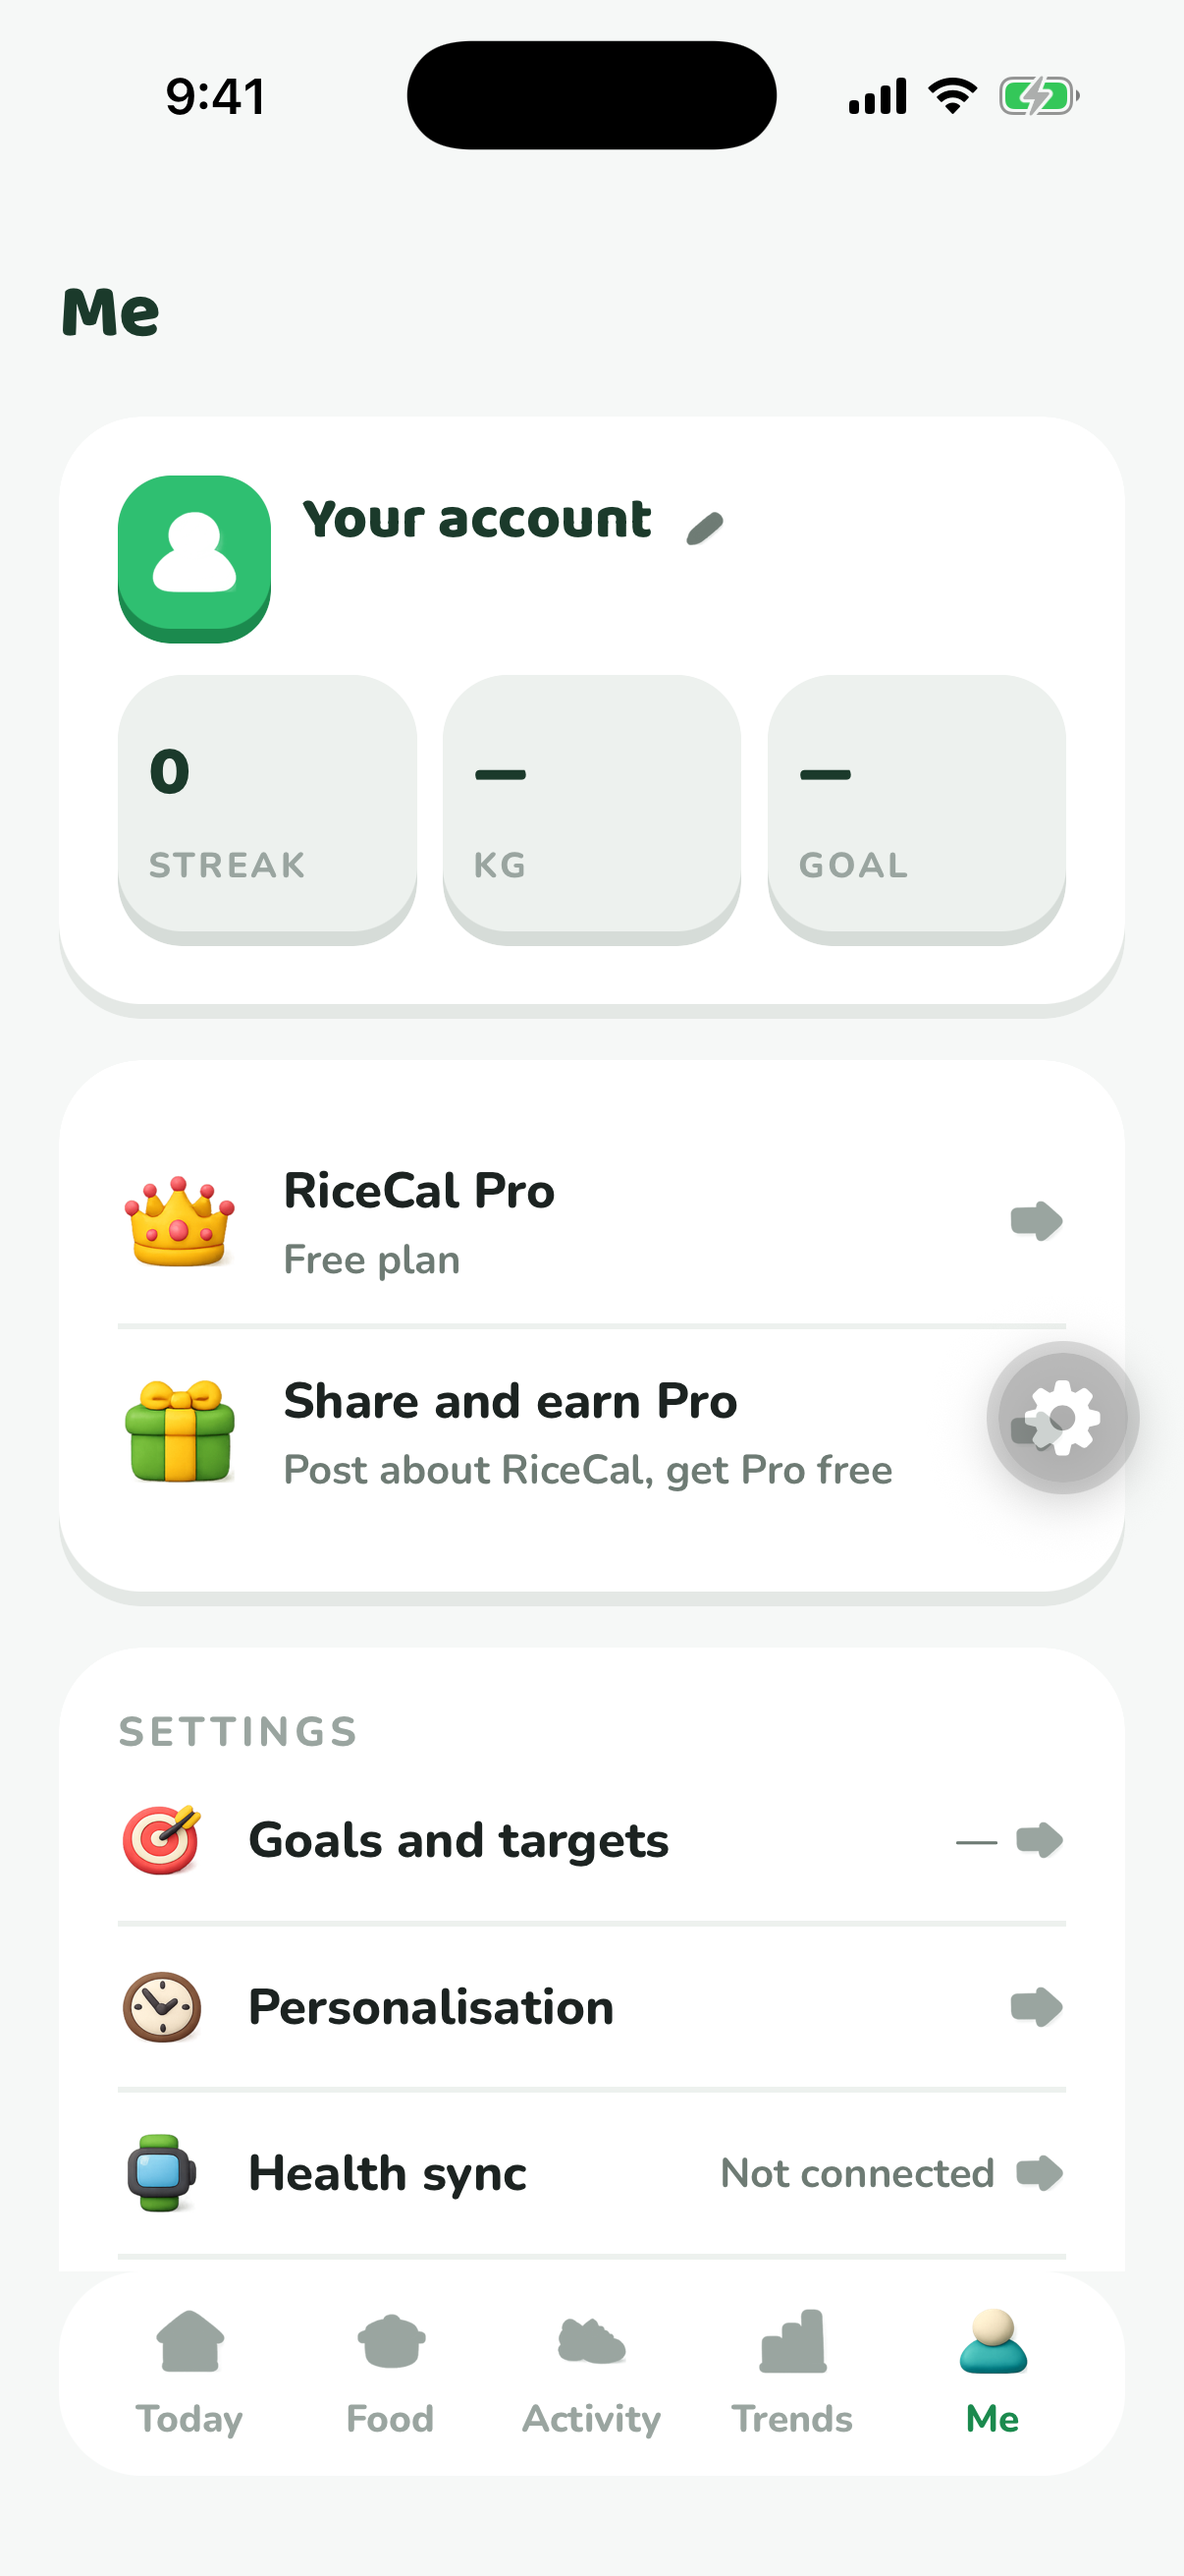
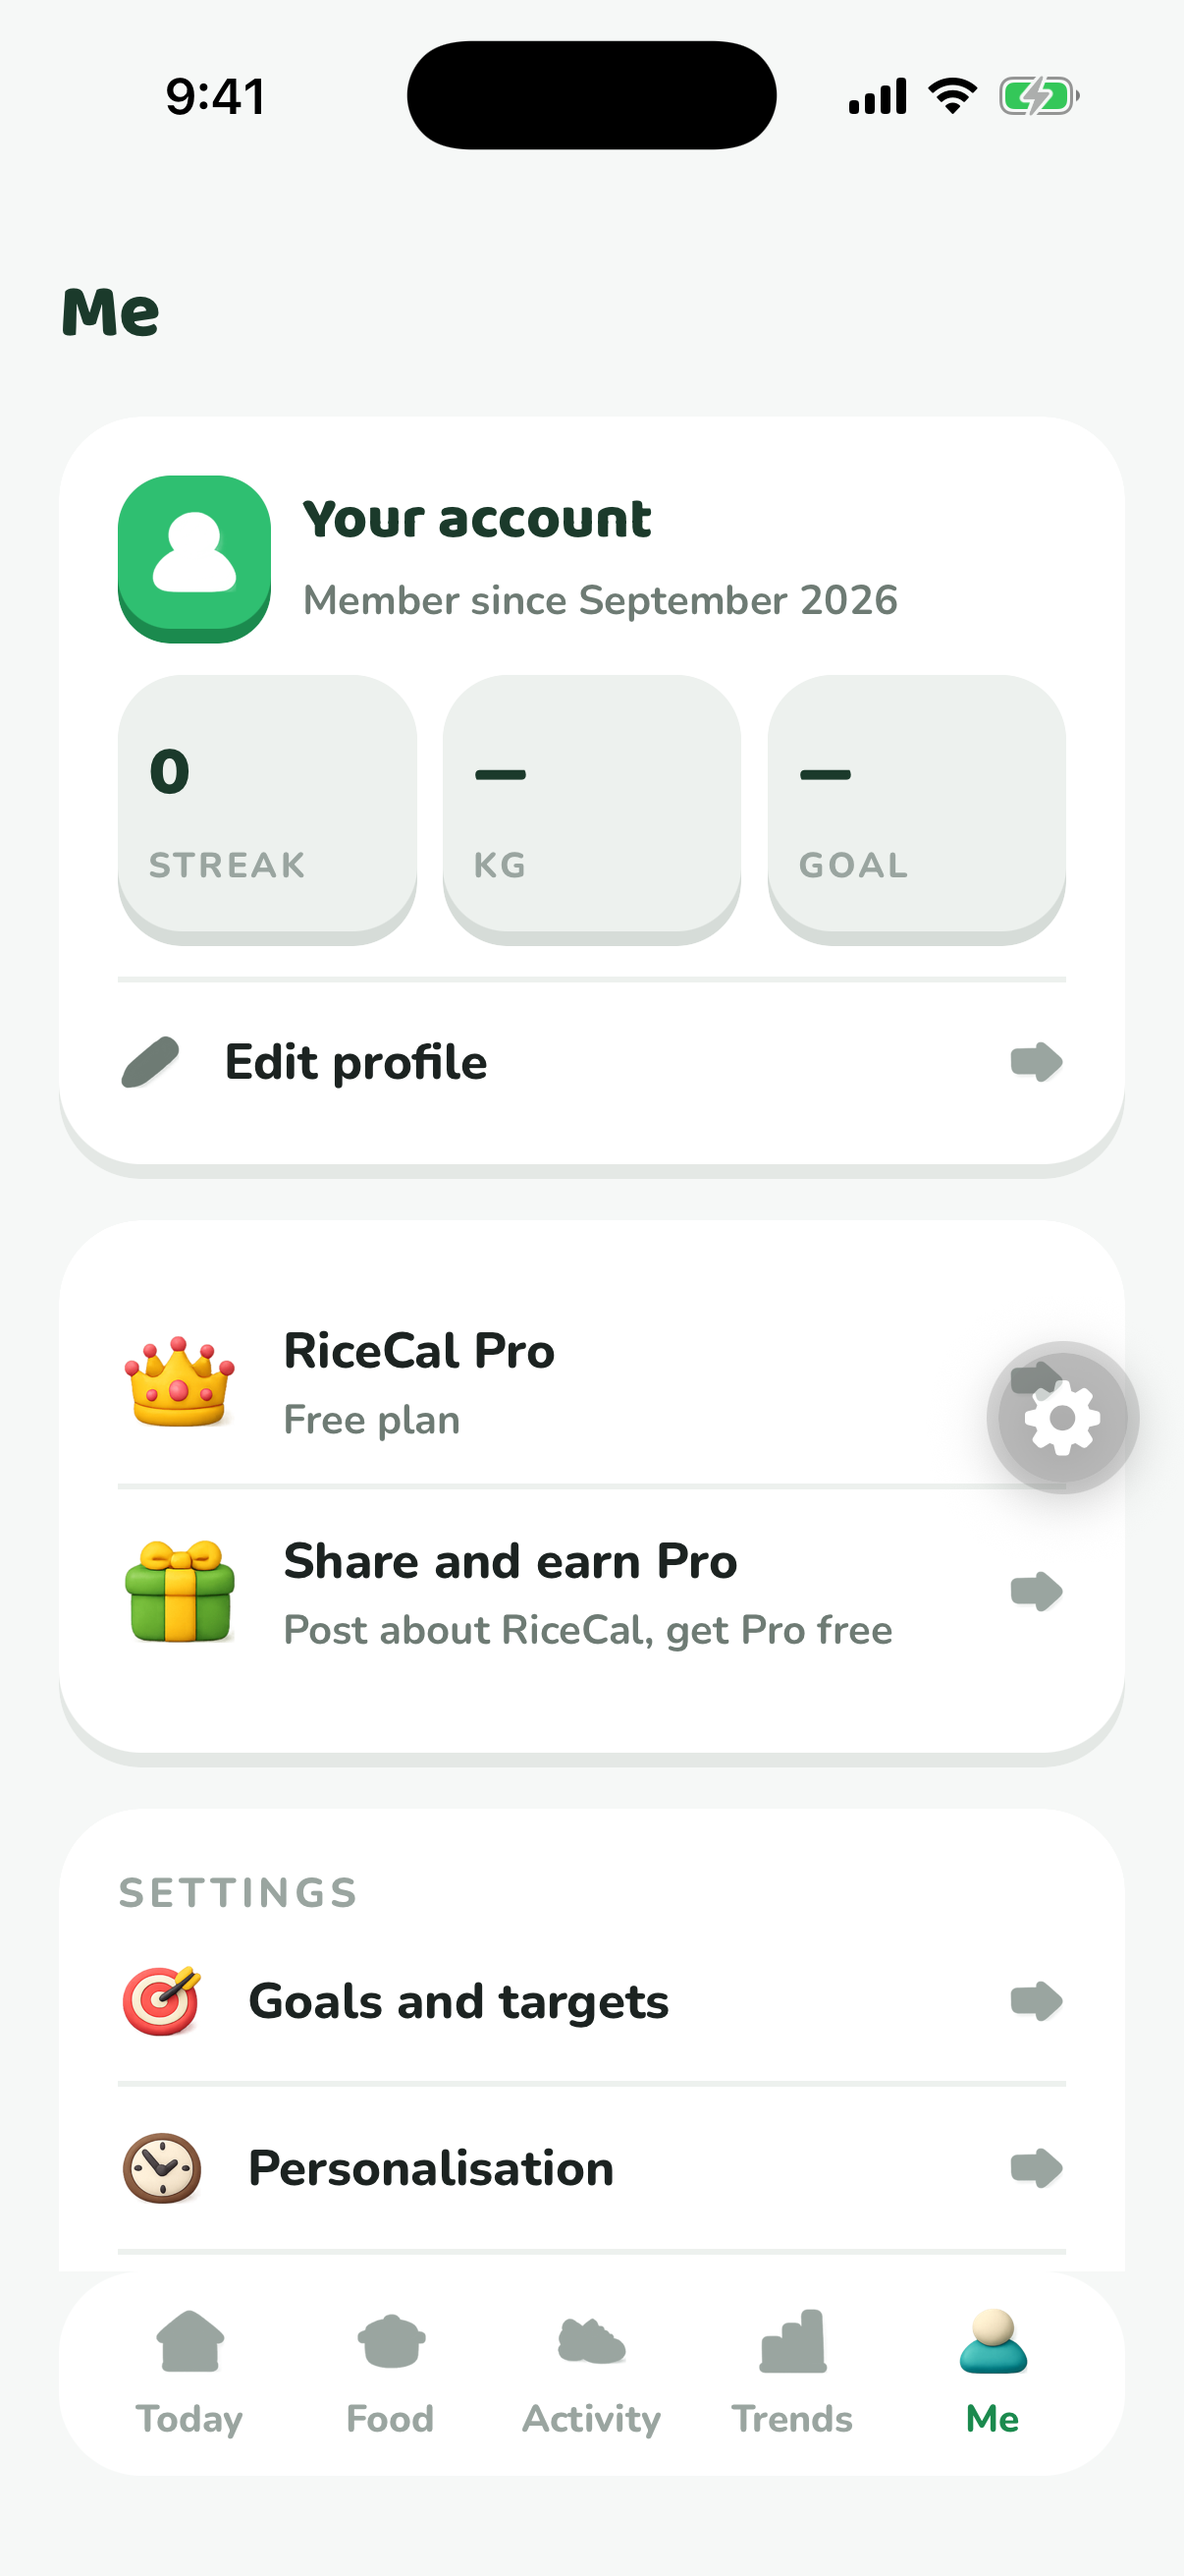
Add an Edit profile footer and show the membership month and year

diff --git a/apps/mobile/app/(tabs)/me.tsx b/apps/mobile/app/(tabs)/me.tsx
@@ -10,6 +10,7 @@ import {
   useHealthConnection,
   useMealTimes,
   useProfile,
+  useSession,
   useSettings,
   useStreak,
   useTargets,
@@ -23,26 +24,17 @@ import { datePattern } from '@/lib/dates'
 import { askForRating } from '@/lib/rating'
 import { showWeight, UNIT_KEY, unitFor } from '@/lib/units'
 import { useThemeColors } from '@/theme/useTheme'
-import {
-  Avatar,
-  Button,
-  Card,
-  ConfirmSheet,
-  Icon,
-  IconButton,
-  ListRow,
-  Screen,
-  StatTile,
-  Text,
-} from '@/ui'
+import { Avatar, Button, Card, ConfirmSheet, Icon, ListRow, Screen, StatTile, Text } from '@/ui'
 
 /** U1 PROFILE */
 export default function MeScreen() {
   const { t } = useTranslation(['profile', 'activity', 'common', 'paywall'])
   const router = useRouter()
   const colors = useThemeColors()
+  const { session } = useSession()
 
   const { data: profile } = useProfile()
+  const memberSince = profile?.created_at ?? session?.user.created_at
   const { data: avatarUri } = useAvatarUrl(profile?.avatar_path ?? undefined)
   /**
    * Through `storedImageSource` rather than handed to `Avatar` in two pieces,
@@ -138,25 +130,11 @@ export default function MeScreen() {
             tone="pandan"
           />
           <View className="min-w-0 flex-1 gap-0.5">
-            <View className="flex-row items-center gap-1">
-              <Text variant="subtitle" className="min-w-0 shrink">
-                {profile?.display_name || t('profile:home.noName')}
-              </Text>
-              <IconButton
-                variant="ghost"
-                size="xxs"
-                hitSlop={8}
-                className="self-center"
-                accessibilityLabel={t('common:action.edit')}
-                onPress={() => router.push('/settings/account')}
-              >
-                <Icon set="ui" name="edit" size={14} tintColor={colors.muted} />
-              </IconButton>
-            </View>
+            <Text variant="subtitle">{profile?.display_name || t('profile:home.noName')}</Text>
             <Text variant="meta">
-              {profile?.created_at
+              {memberSince
                 ? t('profile:home.memberSince', {
-                    month: format(parseISO(profile.created_at), 'MMMM'),
+                    month: format(parseISO(memberSince), datePattern('monthYear')),
                   })
                 : ''}
             </Text>
@@ -197,6 +175,13 @@ export default function MeScreen() {
             value={targets ? targets.kcal.toLocaleString() : '—'}
           />
         </View>
+        <ListRow
+          title={t('profile:account.title')}
+          leading={<Icon set="ui" name="edit" size={22} tintColor={colors.muted} />}
+          onPress={() => router.push('/settings/account')}
+          divider={false}
+          className="border-t-2 border-track pb-0"
+        />
       </Card>
 
       {/* `gap-0` because this card holds TWO rows now, and a `ListRow` carries its

diff --git a/README.md b/README.md
@@ -1109,7 +1109,9 @@ unannounced is the other half of the complaint.
 
 ### Editing an account
 
-The pencil icon beside the name on Me opens `app/settings/account.tsx`.
+The Edit profile footer in the account card on Me opens `app/settings/account.tsx`.
+The name and membership month and year stay above the stats. Membership uses the
+profile creation date, falling back to the signed-in account date while the profile loads.
 Names save on blur through the existing profile mutation. Blank names are rejected;
 failed saves keep the draft for another attempt when the field loses focus.
 The Back button waits for that save, and photo picking saves the name first so
